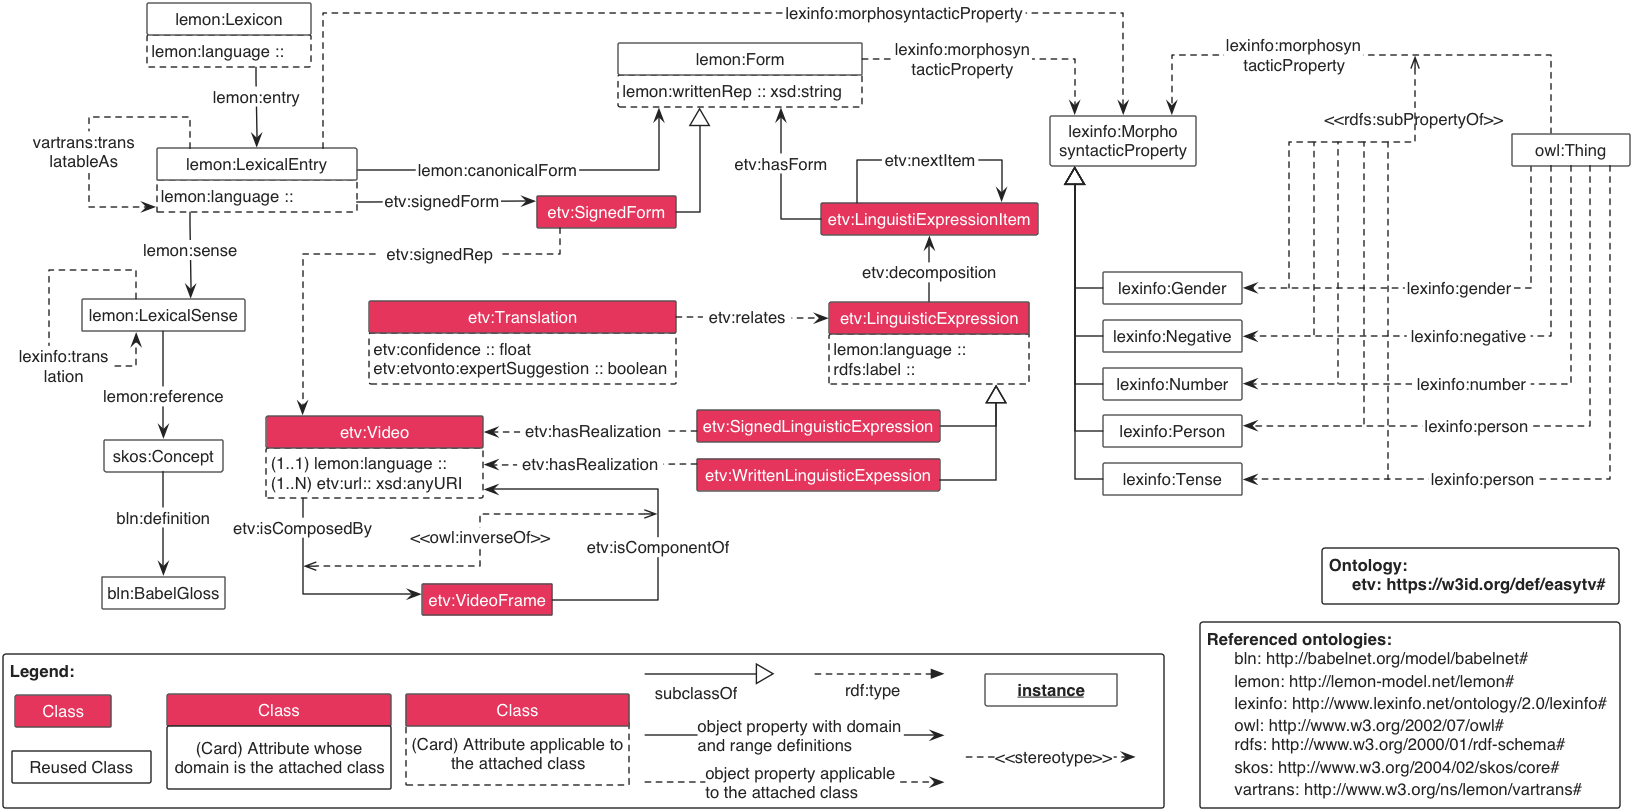
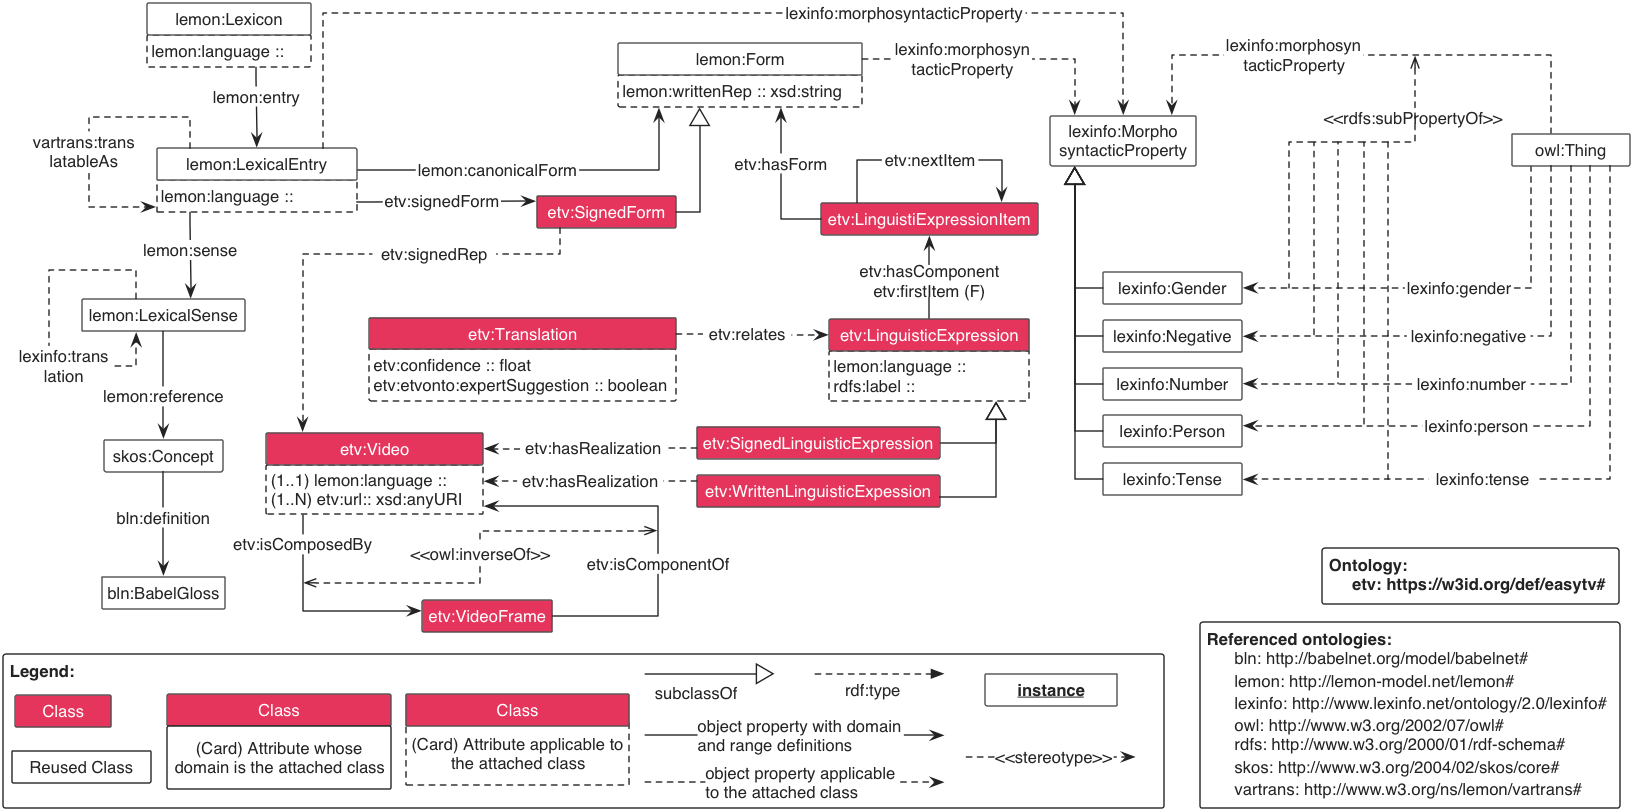
added firstItem and hasComponent fixes: #16 #17

diff --git a/OnToology/ontology/core.ttl/documentation/index-en.html b/OnToology/ontology/core.ttl/documentation/index-en.html
@@ -68,7 +68,7 @@ function loadTOC(){
 <dd><a href="https://w3id.org/def/easytv">https://w3id.org/def/easytv</a></dd>
 
 <dt>Revision:</dt>
-<dd>0.0.3</dd>
+<dd>0.0.6</dd>
 
 <dt>Authors:</dt>
 <dd><a href="http://purl.org/net/mpoveda">http://purl.org/net/mpoveda</a></dd>
